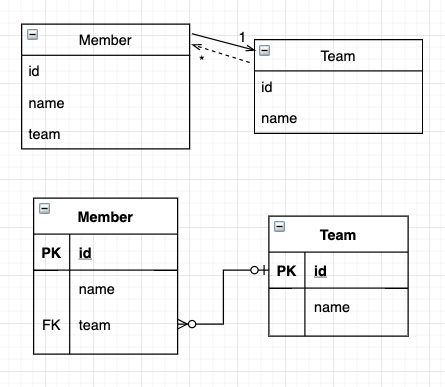
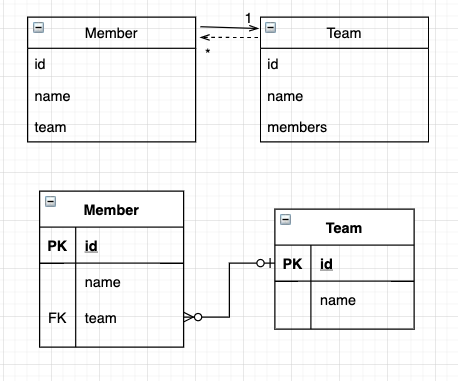
일대다 내용 정리

Changed region(s): [[0.0584, 0.4908, 0.9348, 0.9239], [0.0292, 0.0289, 0.964, 0.4042]]

diff --git a/database/JPA/5.Various association mapping/1.ManyToOneAndOneToMany.md b/database/JPA/5.Various association mapping/1.ManyToOneAndOneToMany.md
@@ -1,0 +1,153 @@
+# 다대일
+
+![inheritance model](../images/4.%20one-way%20relationship.png)
+
+* 일반적으로 N(다) 쪽의 엔티티가 연관관계의 주인이 된다.
+* 위 그림에서 Member 가 연관관계의 주인이 된다.
+* 위 그림은 N -> 1 방향으로의 단방향 관계를 나타낸 그림이다.
+
+![inheritance model](../images/5.%20two-way%20relationship2.png)
+
+* 처음 그림과 달라진 점은, Team -> Member 로 접근이 가능하도록 설정되어있다.
+* 양방향은 외래 키가 있는 쪽이 연관관계의 주인이다.
+    * 주인이 아닌 엔티티에서, 다른 연관관계 정보는 읽기 전용이며 이는 조회를 위한 JPQL 이나 객체 그래프 탐색에 이용된다.
+* 양방향 연관관계는 항상 서로를 참조한다.
+    * 무한루프를 조심해야 한다.
+        * setter 를 지정할 떄, 무한 루프를 조심해야 한다.
+        * 또한, toString() 등과 같은 메소드에 의해서도 무한루프에 빠질 수 있다.
+
+```java
+// infinite loop
+
+class Member() {
+    ...
+    @ManyToOne
+    Team team;
+    ...
+
+    public void setTeam(Team team) {
+        this.team = team;
+        team.addMember(this);
+        // 양방향 관계에서, 관계를 추가할 때 해당 엔티티에 데이터를 추가해주는게 좋지만
+        // 위와 같이 사용하면 무한루프에 빠진다.
+
+        /*
+        if (!team.getMembers().contains(this)) {
+            team.addMember(this);
+        }
+        */
+    }
+}
+
+class Team() {
+    ...
+    @OneToMany(mappedBy = "team")
+    List<Member> members;
+    ...
+
+    public void addMember(Member member) {
+        this.members.add(member);
+        membmer.team = team;
+        // 양방향 관계에서, 관계를 추가할 때 해당 엔티티에 데이터를 추가해주는게 좋지만
+        // 위와 같이 사용하면 무한루프에 빠진다.
+
+        /*
+        if (!member.team != this) {
+            member.team = this;
+        }
+        */
+    }
+}
+
+...
+
+Team team = Team(1);
+Member member = Member(1);
+
+team.addMember(member);
+// 위에 무한루프 빠지는 setter 가 아닌 변경된 setter 로 저장.
+
+team.toString();
+// 해당 방식은 team -> member -> member ... 로 무한루프에 빠진다.
+```
+
+# 일대다
+
+![two-way](../images/5.%20two-way%20relationship2.png)
+
+* 위 그림에서 team 을 기준으로 할 때, 일대다 관계이다.
+
+## 일대다의 단방향 매핑
+
+![one-way](../images/5.%20two-way%20relationship3.png)
+
+* 기존 그림의 엔티티에 member 에 team 객체체에 대한 정보가 없을 경우, 일대다의 단방향 매핑이 된다.
+* 하지만, 기존 데이터베이스의 erd 는 member 에서 team 을 관리할 수 있는 fk 정보가 설정되어 있다.
+    * 객체의 관계에서는 team 을 통해 연관된 객체를 관리하지만, 실질적으로는 member 에서 관리가 되는 형태가 된다.
+    
+```java
+@Entity
+public class Team {
+    ...
+
+    @OneToMany
+    @JoinColumn(name = "team") // member 테이블의 fk 컬럼이름
+    private List<Member> members = new ArrayList<Member>();
+
+    ...
+}
+
+// 기존 member 엔티티의 Team 정보가 있던 필드를 제거한다.
+```
+
+* 일대다 단방향 매핑은 반드시 @JoinColumn 을 명시해야 한다.
+* 일대다 단방향 매핑의 단점
+    1. 객체가 관리하는 외래키가 다른 테이블에 있다.
+    2. 다른 테이블에 외래키가 있을 경우에, 연관관계 처리를 위한 update SQL 을 추가로 실행해야 한다.
+    3. 따로 필요없는 쿼리도 날리게 되므로 성능적으로 나뻐지게 된다.
+    4. 또한, 관리하는 포인트가 별도로 있기에 복잡해진다.
+* 단점들이 있고, 굳이 일대다 단방향을 사용할 필요는 없기때문에 차라리 다대일 양방향 매핑을 사용하는게 낫다.
+    
+```java
+Member member1 = new Member(1);
+Member member1 = new Member(2);
+
+Team team = new Team(1);
+
+team.addMember(member1);
+team.addMember(member2);
+
+em.persist(member1);    // insert member1
+em.persist(member2);    // insert member2
+em.persist(team);       // insert team, update member1,member2 by fk column
+// team 의 테이블에는 fk 에 대한 정보가 없기 때문에, members 의 참조 값을 확인하여 member 테이블의 team 컬럼을 업데이트 해줘야 한다.
+```
+
+* 일대다 기준의 양방향 매핑도 가능은 하다.
+    * N 부분의 필드를 읽기 전용으로 만들면 된다.
+    * 일반적인 양방향이기라기 보다는, N 부분을 그저 읽기전용으로 만든건데.. 굳이 이럴필요가 있을까?
+    * 또한, 일대다 단방향 매핑이 가지는 단점을 그대로 가진다.
+
+```java
+@Entity
+public class Team {
+    ...
+
+    @OneToMany
+    @JoinColumn(name = "team")
+    private List<Member> members = new ArrayList<Member>();
+
+    ...
+}
+
+@Entity
+public class Member {
+    ...
+
+    @ManyToOne
+    @JoinColumn(name = "team", insertable = false, updatable = false)
+    private Team team;
+
+    ...
+}
+```

diff --git a/database/JPA/5.Various association mapping/2.OneToMany.md b/database/JPA/5.Various association mapping/2.OneToMany.md
@@ -1,0 +1,51 @@
+# 일대다
+
+![two-way](../images/5.%20two-way%20relationship2.png)
+
+* 위 그림에서 team 을 기준으로 할 때, 일대다 관계이다.
+
+## 일대다의 단방향 매핑
+
+![one-way](../images/5.%20two-way%20relationship3.png)
+
+* 기존 그림의 엔티티에 member 에 team 객체체에 대한 정보가 없을 경우, 일대다의 단방향 매핑이 된다.
+* 하지만, 기존 데이터베이스의 erd 는 member 에서 team 을 관리할 수 있는 fk 정보가 설정되어 있다.
+    * 객체의 관계에서는 team 을 통해 연관된 객체를 관리하지만, 실질적으로는 member 에서 관리가 되는 형태가 된다.
+    
+```java
+@Entity
+public class Team {
+    ...
+
+    @OneToMany
+    @JoinColumn(name = "team") // member 테이블의 fk 컬럼이름
+    private List<Member> members = new ArrayList<Member>();
+
+    ...
+}
+
+// 기존 member 엔티티의 Team 정보가 있던 필드를 제거한다.
+```
+
+* 일대다 단방향 매핑은 반드시 @JoinColumn 을 명시해야 한다.
+* 일대다 단방향 매핑의 단점
+    1. 객체가 관리하는 외래키가 다른 테이블에 있다.
+    2. 다른 테이블에 외래키가 있을 경우에, 연관관계 처리를 위한 update SQL 을 추가로 실행해야 한다.
+    3. 따로 필요없는 쿼리도 날리게 되므로 성능적으로 나뻐지게 된다.
+    4. 또한, 관리하는 포인트가 별도로 있기에 복잡해진다.
+* 단점들이 있고, 굳이 일대다 단방향을 사용할 필요는 없기때문에 차라리 다대일 양방향 매핑을 사용하는게 낫다.
+    
+```java
+Member member1 = new Member(1);
+Member member1 = new Member(2);
+
+Team team = new Team(1);
+
+team.addMember(member1);
+team.addMember(member2);
+
+em.persist(member1);    // insert member1
+em.persist(member2);    // insert member2
+em.persist(team);       // insert team, update member1,member2 by fk column
+// team 의 테이블에는 fk 에 대한 정보가 없기 때문에, members 의 참조 값을 확인하여 member 테이블의 team 컬럼을 업데이트 해줘야 한다.
+```
